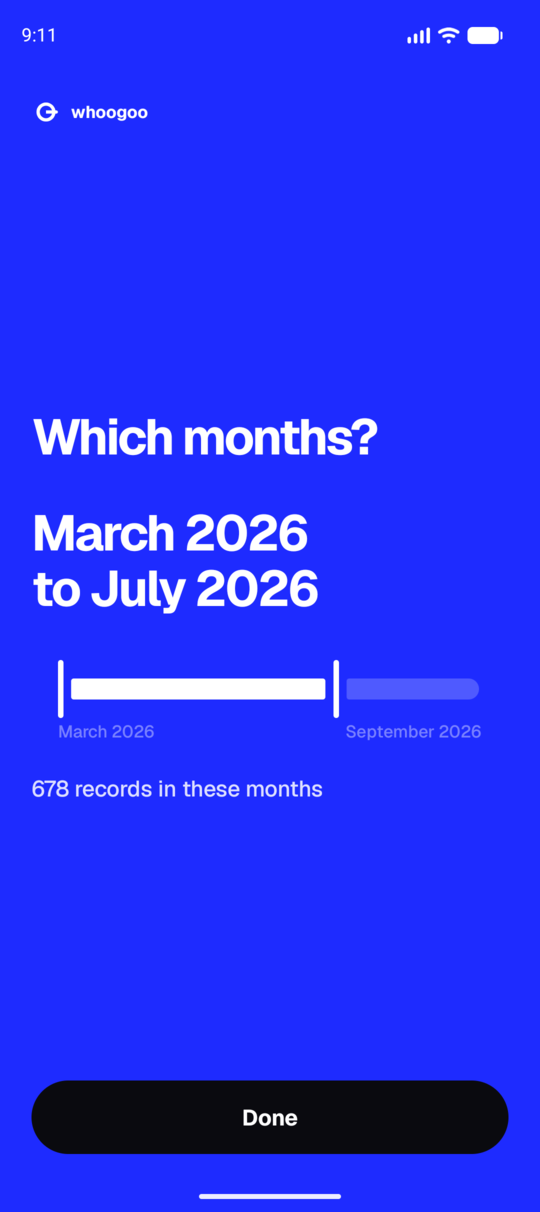
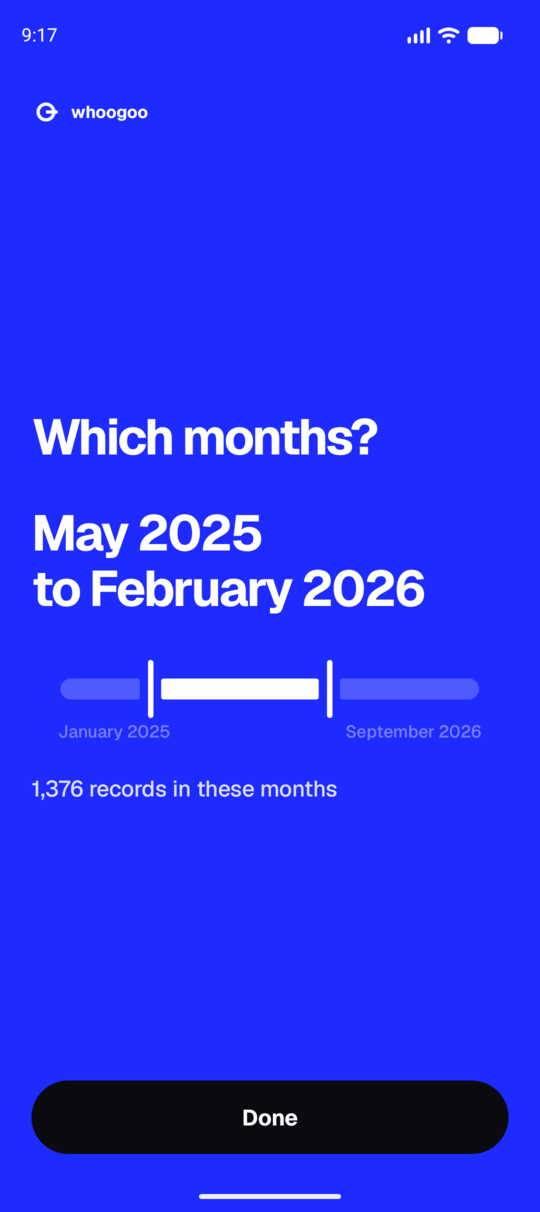
docs: give the sample export two years of history
Six months of data made the range picker look pointless: sliding across half a
year is not the problem anyone has. The sample now runs from the start of the
previous calendar year to a few days ago, which is the shape of history someone
actually leaves WHOOP with, and puts the record count in the thousands where a
real export sits.

The range screenshot moves both handles rather than one, since that is what the
control is for.

Claude-Session: https://claude.ai/code/session_01LNjKXzTXRcNw6JaodJfN3D

diff --git a/docs/sample-export.py b/docs/sample-export.py
@@ -29,10 +29,11 @@ ACTIVITIES = ["Running", "Cycling", "Weightlifting", "Yoga", "Swimming", "Hiking
 TZ = "UTC+01:00"
 
 
-def build(path, days=181, seed=7, end=None):
+def build(path, days=610, seed=7, end=None):
     random.seed(seed)
     fmt = lambda d: d.strftime("%Y-%m-%d %H:%M:%S")
     sleeps, cycles, workouts = [SLEEPS], [CYCLES], [WORKOUTS]
+    # About twenty months, so the sample crosses a new year the way a real migration does.
     end = end or datetime.now().replace(hour=23, minute=40, second=0, microsecond=0) - timedelta(days=4)
     start = end - timedelta(days=days - 1)
     for i in range(days):
